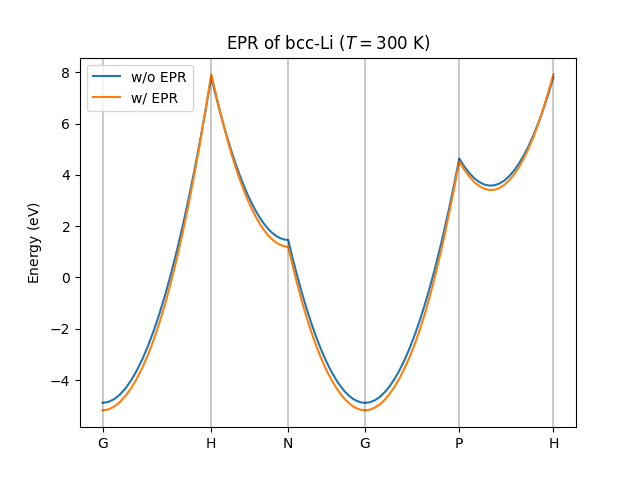
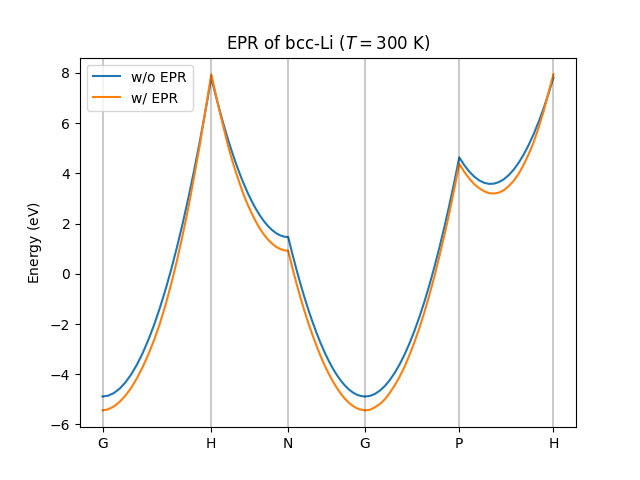
:books: updated README

diff --git a/elphem/elph/electron_phonon.py b/elphem/elph/electron_phonon.py
@@ -24,7 +24,7 @@ class ElectronPhonon:
         couplings (np.ndarray): electron-phonon coupling constants squared
     """
     def __init__(self, electron: Electron, phonon: Phonon, temperature: float, n_bands: int,
-                sigma: float = 0.001, eta: float = 0.0005, coupling_type: str = "bloch"):
+                sigma: float = 0.001, eta: float = 0.0005, coupling_type: str = "bardeen"):
         self.n_dim = electron.lattice.n_dim
         self.temperature = temperature
         if n_bands > electron.n_bands:

diff --git a/examples/epr.py b/examples/epr.py
@@ -36,7 +36,7 @@ def main():
     phonon = Phonon.create_from_n(lattice, debye_temperature, n_q)
 
     # Generate electron-phonon
-    electron_phonon = ElectronPhonon(electron, phonon, temperature, n_bands_elph, eta=0.05, coupling_type="bardeen")
+    electron_phonon = ElectronPhonon(electron, phonon, temperature, n_bands_elph, eta=0.05)
     
     # Calculate electron-phonon renormalization
     epr = electron_phonon.calculate_electron_phonon_renormalization()

diff --git a/examples/spectrum.py b/examples/spectrum.py
@@ -36,7 +36,7 @@ def main():
     phonon = Phonon.create_from_n(lattice, debye_temperature, n_q)
 
     # Generate electron-phonon
-    electron_phonon = ElectronPhonon(electron, phonon, temperature, n_bands_elph)
+    electron_phonon = ElectronPhonon(electron, phonon, temperature, n_bands_elph, eta=0.05)
 
     # Set frequencies
     n_omega = 200

diff --git a/README.md b/README.md
@@ -59,7 +59,7 @@ def main():
     n_split = 50
     
     # Parameters of electron-phonon
-    temperature = 0.8 * debye_temperature
+    temperature = 300.0
     n_bands_elph = 4
 
     # Generate a lattice
@@ -75,7 +75,7 @@ def main():
     phonon = Phonon.create_from_n(lattice, debye_temperature, n_q)
 
     # Generate electron-phonon
-    electron_phonon = ElectronPhonon(electron, phonon, temperature, n_bands_elph)
+    electron_phonon = ElectronPhonon(electron, phonon, temperature, n_bands_elph, eta=0.05)
 
     # Set frequencies
     n_omega = 200
@@ -102,7 +102,7 @@ def main():
     ax.set_title("Spectral function of bcc-Li (Normalized)")
     
     fig.colorbar(mappable, ax=ax)
-    mappable.set_clim(0.00, 0.03)
+    mappable.set_clim(0.00, 0.02)
 
     fig.savefig("spectrum.png")
 
